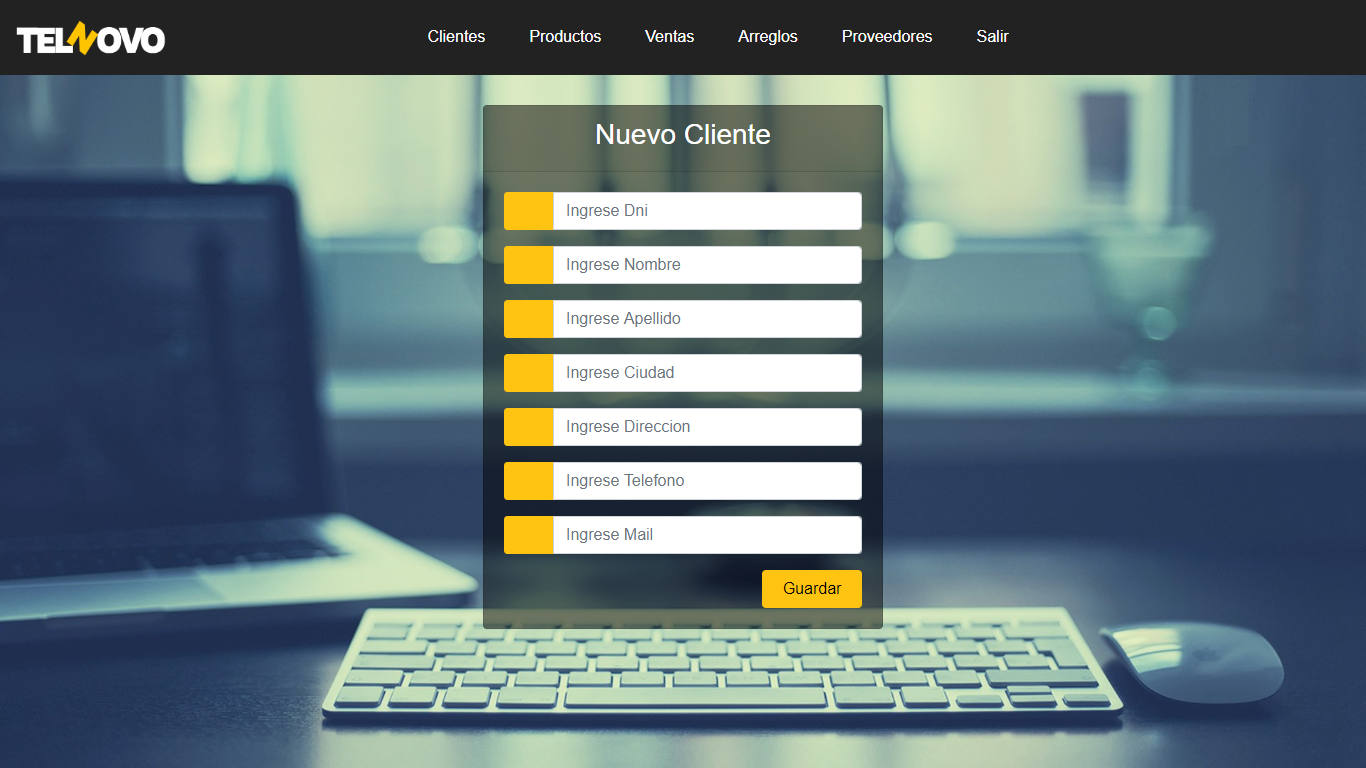
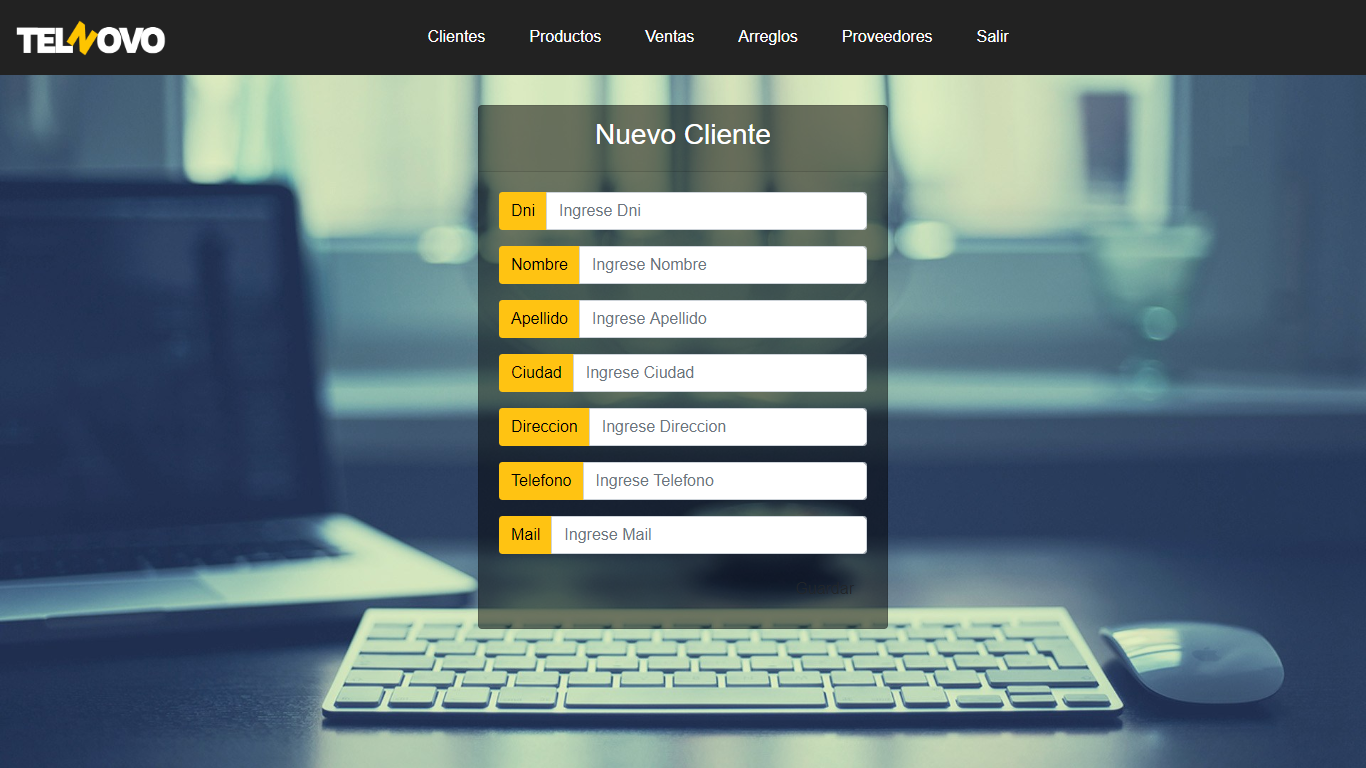
Acomodos Varios

Changed region(s): [[0.3382, 0.1562, 0.5227, 0.8125], [0.5534, 0.1562, 0.6764, 0.8125]]

diff --git a/client/components/Producto/NuevoProducto.vue b/client/components/Producto/NuevoProducto.vue
@@ -42,7 +42,7 @@
               						<input required type="number" v-model="producto.precio" class="form-control" placeholder="Ingrese Precio">
             					</div>
             					<div class="form-group">
-            						  <input type="submit" value="Guardar"  class="btn float-right login_btn">
+            						  <input type="submit" value="Guardar"  class="btn float-right nuevoProducto_btn">
             					</div>
         				</form>
                       <br>
@@ -112,6 +112,21 @@ export default {
 
 <style>
 
+.card{
+height: auto;
+margin-top: 30px;
+margin-bottom: auto;
+width: 410px;
+background-color: rgba(0,0,0,0.5) !important;
+}
+
+input-group-prepend span{
+width: auto;
+background-color: #FFC312;
+color: black;
+border:0 !important;
+}
+
 h1, h2 {
   font-weight: normal;
 }
@@ -130,24 +145,17 @@ a {
   color: #42b983;
 }
 
-#cliente:{
-  background-color: red;
-  color: black;
-  height: 193%;
-}
-
-input-group-prepend span{
-width: auto;
-background-color: #FFC312;
+.nuevoProducto_btn{
 color: black;
-border:0 !important;
+background-color: #FFC312;
+width: 100px;
 }
 
-.card{
-height: auto;
-margin-top: 30px;
-margin-bottom: auto;
-width: 410px;
-background-color: rgba(0,0,0,0.5) !important;
+.nuevoProducto_btn:hover{
+color: black;
+background-color: white;
 }
+
+
+
 </style>

diff --git a/client/App.vue b/client/App.vue
@@ -2,7 +2,7 @@
   <div id="app">
         <nav v-if="autenticado" class="navbar navbar-expand-lg navbar-dark">
                 <div style="width:70px;">
-                    <img src="./LogoTelnovo.png" style="height:50px; width:150px; float:left;">
+                    <img src="./assets/LogoTelnovo.png" style="height:50px; width:150px; float:left;">
                 </div>
                 <div class="collapse navbar-collapse">
                     <ul class="navbar-nav mx-auto">
@@ -77,12 +77,13 @@ export default {
 </script>
 
 <style>
-body{
-    background-repeat: no-repeat;
-   background-attachment: fixed;
-   background-position: center;
-    color: white;
-  }
+html,body{
+background-image: url('https://i0.wp.com/www.carrerasaludmental.com/wp-content/uploads/2017/12/At-the-Office-Mac-Apple-Wallpapers-Creative-Planning-2982192420.jpeg');
+background-size: cover;
+background-repeat: no-repeat;
+height: 100%;
+font-family: 'Numans', sans-serif;
+}
 
   .navbar{background:#222222;}
   .nav-item::after{content:'';display:block;width:0px;height:2px;background:#fec400;transition: 0.2s;}

diff --git a/client/components/Cliente/HomeCliente.vue b/client/components/Cliente/HomeCliente.vue
@@ -153,10 +153,11 @@ export default {
 
 <style>
 #app {
-  font-family: 'Avenir', Helvetica, Arial, sans-serif;
   -webkit-font-smoothing: antialiased;
   -moz-osx-font-smoothing: grayscale;
   text-align: center;
+  font-family: 'Numans', sans-serif;
+  color: white;
 }
 
 
@@ -177,10 +178,5 @@ li {
 a {
   color: #42b983;
 }
-
-#tabla{
-   background-color: rgba(0,0,0,0.8);
-}
-
 
 </style>

diff --git a/client/components/Producto/HomeProducto.vue b/client/components/Producto/HomeProducto.vue
@@ -163,6 +163,8 @@ export default {
   -webkit-font-smoothing: antialiased;
   -moz-osx-font-smoothing: grayscale;
   text-align: center;
+  font-family: 'Numans', sans-serif;
+  color: white;
 }
 
 h1, h2 {
@@ -183,8 +185,4 @@ a {
   color: #42b983;
 }
 
-#table {
-	margin: 0 auto;
-	width: 500px;
-}
 </style>

diff --git a/client/components/Venta/HomeVenta.vue b/client/components/Venta/HomeVenta.vue
@@ -136,11 +136,11 @@ export default {
 
 <style>
 #app {
-  font-family: 'Avenir', Helvetica, Arial, sans-serif;
   -webkit-font-smoothing: antialiased;
   -moz-osx-font-smoothing: grayscale;
   text-align: center;
   color: white;
+  font-family: 'Numans', sans-serif;
 }
 
 

diff --git a/server/routes/cliente.js b/server/routes/cliente.js
@@ -8,7 +8,7 @@ var pg = require('pg');
 const Pool = require('pg').Pool
 const pool = new Pool({
   user: 'postgres',
-  host: 'localhost',
+  host: '127.0.0.1',
   database: 'Telnovo',
   password: '1234',
   port: 5432,
